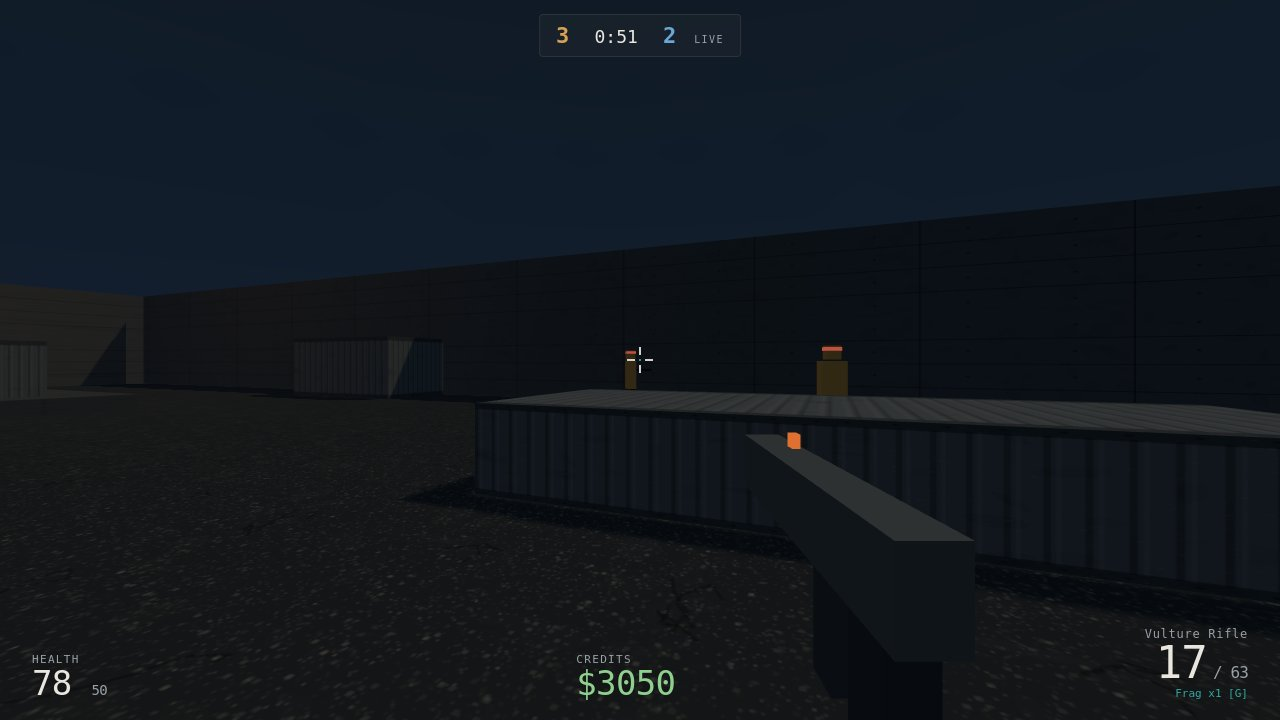
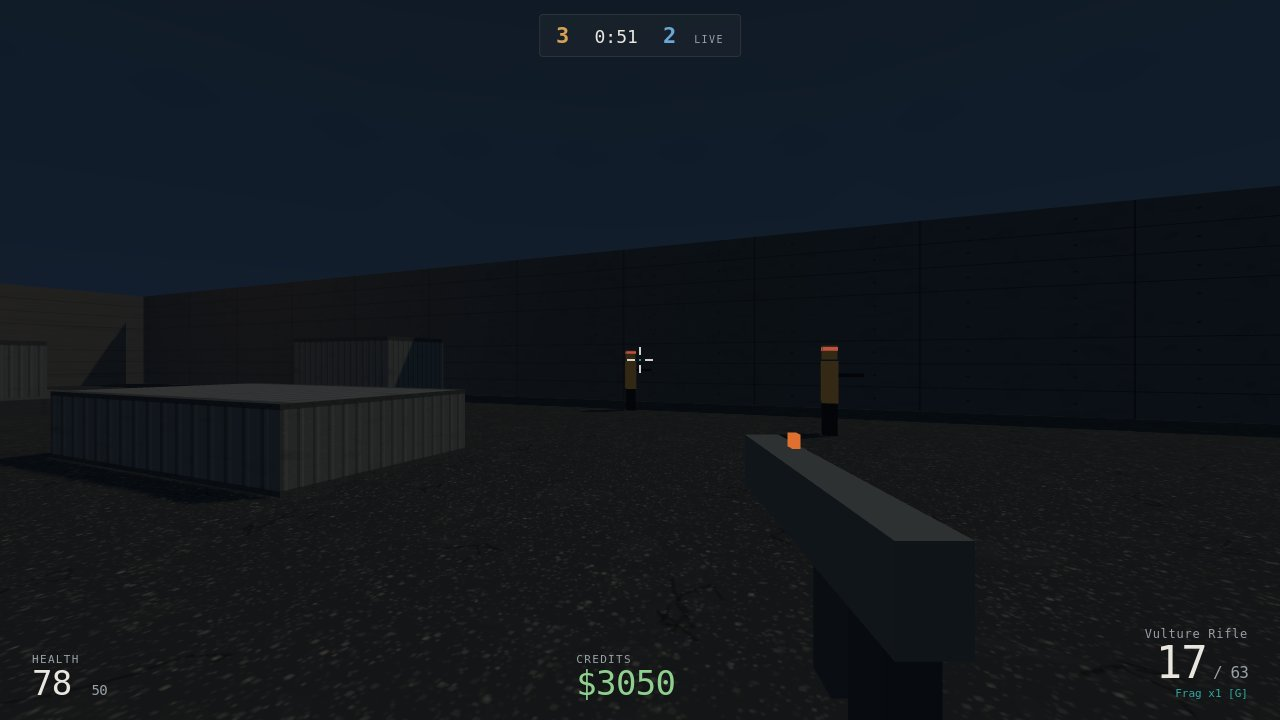
Map rebuild: clear waypoint lanes, gantry beam, procedural texture pass
- Re-routed every bot waypoint edge through open ground (audit: 0 blocked
  edges); re-shaped crane alley into a 4-wide corridor with staggered cover
- Procedural CanvasTextures for containers/concrete/asphalt/hazard, sun
  shadows, sky gradient dome, site hazard skirts
- First-person player body hidden; viewmodel + helmet team bands fixed
- Staged 4 screenshots; dossier builds deterministic (368 KB)

Changed region(s): [[0.3438, 0.4889, 1.0, 0.6111], [0.0625, 0.5194, 0.3438, 0.5806]]

diff --git a/game/src/mapdata.js b/game/src/mapdata.js
@@ -1,6 +1,8 @@
 // SALTDOWN — map data for "Saltline", an original container-terminal map.
 // Pure data: axis-aligned boxes (x,z = center, w,d = footprint, h = height, y = base),
 // material keys from config.PALETTE, plant sites, spawns and a waypoint graph the bots walk.
+// Layout: three north-south routes (crane alley mid, west hall, east maze) meeting the two
+// plant sites; every waypoint edge runs through open ground the audit script verifies.
 
 // Materials: g ground (implicit), c concrete, d dark concrete, m metal, r rust, t teal accent, o orange accent.
 export const BOXES = [
@@ -10,53 +12,59 @@ export const BOXES = [
   { x: -45, z: 0, w: 2, d: 94, h: 6, m: 'c' },
   { x: 45, z: 0, w: 2, d: 94, h: 6, m: 'c' },
 
-  // central "crane alley" mid lane — long sightline with cover crates
-  { x: -3, z: -18, w: 6, d: 6, h: 2.6, m: 'r' },
-  { x: 3, z: -6, w: 6, d: 6, h: 2.6, m: 'r' },
-  { x: -3, z: 6, w: 6, d: 6, h: 2.6, m: 'r' },
-  { x: 3, z: 18, w: 6, d: 6, h: 2.6, m: 'r' },
-  { x: 0, z: 0, w: 2.2, d: 2.2, h: 7.5, m: 'm' }, // crane pillar
+  // central "crane alley" mid lane — a 4-wide corridor with staggered container cover on
+  // both sides, and a two-legged crane gantry with an overhead beam crossing the lane
+  { x: 6, z: -18, w: 6, d: 6, h: 2.6, m: 'r' },
+  { x: -6, z: -12, w: 6, d: 6, h: 2.6, m: 'r' },
+  { x: 6, z: -6, w: 6, d: 6, h: 2.6, m: 'r' },
+  { x: -6, z: 0, w: 6, d: 6, h: 2.6, m: 'r' },
+  { x: 6, z: 6, w: 6, d: 6, h: 2.6, m: 'r' },
+  { x: -6, z: 12, w: 6, d: 6, h: 2.6, m: 'r' },
+  { x: 6, z: 18, w: 6, d: 6, h: 2.6, m: 'r' },
+  { x: -2.6, z: 0, w: 1.4, d: 1.4, h: 7.5, m: 'm' }, // crane leg west
+  { x: 2.6, z: 0, w: 1.4, d: 1.4, h: 7.5, m: 'm' },  // crane leg east
+  { x: 0, z: 0, y: 4.6, w: 7.5, d: 2, h: 0.8, m: 'm' }, // gantry beam over the lane
 
-  // site A (west, attackers push via upper catwalk or low hall)
-  { x: -30, z: -28, w: 18, d: 16, h: 0.5, m: 'd' }, // raised platform (walkable ramp height)
-  { x: -30, z: -28, w: 4, d: 4, h: 3.4, m: 't' }, // plant prop
+  // site A (west, raised platform walkable at step height)
+  { x: -30, z: -28, w: 18, d: 16, h: 0.5, m: 'd' },
+  { x: -34, z: -30, w: 4, d: 4, h: 3.4, m: 't' }, // plant prop, off the direct walk line
   { x: -38, z: -20, w: 6, d: 4, h: 2.6, m: 'r' },
   { x: -24, z: -34, w: 8, d: 3, h: 2.6, m: 'r' },
   { x: -22, z: -22, w: 3, d: 3, h: 2.2, m: 'm' },
   { x: -36, z: -36, w: 4, d: 2, h: 3.6, m: 'm' }, // cover pillar
 
-  // site B (east, reached through container maze)
+  // site B (east, reached through the container maze)
   { x: 30, z: 28, w: 18, d: 16, h: 0.5, m: 'd' },
-  { x: 30, z: 28, w: 4, d: 4, h: 3.4, m: 'o' }, // plant prop
-  { x: 22, z: 20, w: 5, d: 5, h: 2.6, m: 'r' },
+  { x: 34, z: 30, w: 4, d: 4, h: 3.4, m: 'o' }, // plant prop
+  { x: 16, z: 22, w: 5, d: 5, h: 2.6, m: 'r' },
   { x: 37, z: 33, w: 5, d: 3, h: 2.6, m: 'r' },
   { x: 24, z: 33, w: 3, d: 3, h: 2.2, m: 'm' },
   { x: 36, z: 22, w: 2, d: 2, h: 3.6, m: 'm' },
 
   // container maze between mid and B
+  { x: 14, z: 20, w: 10, d: 4, h: 2.6, m: 'o' },
   { x: 16, z: 6, w: 6, d: 14, h: 2.6, m: 'r' },
-  { x: 24, z: -2, w: 8, d: 6, h: 2.6, m: 'm' },
-  { x: 30, z: 8, w: 6, d: 10, h: 2.6, m: 'r' },
-  { x: 16, z: 20, w: 10, d: 5, h: 2.6, m: 'o' },
+  { x: 36, z: -4, w: 4, d: 8, h: 2.6, m: 'r' },
+  { x: 36, z: 4, w: 4, d: 8, h: 2.6, m: 'm' },
   { x: 34, z: 14, w: 4, d: 4, h: 2.2, m: 'm' },
 
   // west flank to A (long hall with window)
   { x: -24, z: 4, w: 10, d: 6, h: 3.2, m: 'm' },
-  { x: -32, z: 14, w: 6, d: 8, h: 2.6, m: 'r' },
-  { x: -14, z: 16, w: 5, d: 5, h: 2.6, m: 'r' },
+  { x: -38, z: 16, w: 6, d: 8, h: 2.6, m: 'r' },
+  { x: -16, z: 22, w: 5, d: 5, h: 2.6, m: 'r' },
   { x: -30, z: 28, w: 12, d: 5, h: 2.6, m: 'o' },
 
   // attacker spawn (south) and defender spawn (north) cover
   { x: -12, z: 38, w: 6, d: 5, h: 2.6, m: 'r' },
-  { x: 12, z: -38, w: 6, d: 5, h: 2.6, m: 'r' },
-  { x: 0, z: 34, w: 8, d: 3, h: 1.1, m: 'm' }, // ramp-ish low block at T spawn exit
-  { x: 0, z: -34, w: 8, d: 3, h: 1.1, m: 'm' },
+  { x: 12, z: -42, w: 6, d: 5, h: 2.6, m: 'r' },
+  { x: 9, z: 33, w: 6, d: 3, h: 1.1, m: 'm' }, // low curb off the mid lane at T spawn exit
+  { x: -9, z: -33, w: 6, d: 3, h: 1.1, m: 'm' },
   { x: -20, z: -44, w: 6, d: 4, h: 2.6, m: 'm' },
   { x: 20, z: 44, w: 6, d: 4, h: 2.6, m: 'm' },
 ];
 
-// Raised platforms are walkable (h 1.2). Plant zones: an attacker standing inside with the
-// charge may plant. Defender defuse needs the charge planted here.
+// Plant zones: an attacker standing inside with the charge may plant. Defender defuse
+// needs the charge planted here.
 export const SITES = [
   { name: 'A', x: -30, z: -28, radius: 7 },
   { name: 'B', x: 30, z: 28, radius: 7 },
@@ -84,7 +92,7 @@ export const WAYPOINTS = [
   { x: -34, z: 6 },     // 8 west hall north
   { x: -30, z: -12 },   // 9 approach A from west
   { x: -30, z: -24 },   // 10 site A
-  { x: -18, z: -34 },   // 11 A north connector
+  { x: -16, z: -32 },   // 11 A north connector
   { x: -12, z: -20 },   // 12 A to mid link
   { x: 16, z: 30 },     // 13 east route
   { x: 26, z: 18 },     // 14 maze south
@@ -94,15 +102,8 @@ export const WAYPOINTS = [
   { x: 30, z: -30 },    // 18 B north approach (rotator)
   { x: 30, z: 24 },     // 19 site B
   { x: 14, z: 38 },     // 20 B south connector
-  { x: -12, z: 8 },     // 21 mid-west link
-  { x: 12, z: -8 },     // 22 mid-east link
-];
-
-export const EDGES = [
-  [0, 1], [1, 2], [2, 3], [3, 4], [4, 5],
-  [0, 6], [6, 7], [7, 8], [8, 9], [9, 10], [10, 11], [11, 12], [12, 2], [12, 3], [9, 12],
-  [0, 20], [20, 13], [13, 14], [14, 15], [15, 16], [16, 17], [17, 18], [18, 19], [19, 14], [19, 15], [18, 4], [17, 3],
-  [1, 21], [21, 7], [2, 21], [5, 18], [3, 22], [22, 16], [4, 22], [13, 19],
+  { x: -11, z: 16 },    // 21 mid-west link
+  { x: 12, z: -10 },    // 22 mid-east link
 ];
 
 // Per-role default target site preference (index into SITES), split across the team.
@@ -110,3 +111,10 @@ export const TEAM_PLAN = {
   attack: [0, 0, 1, 1],   // 2 push A, 2 push B (player free)
   defend: [0, 0, 1, 1],   // 2 hold each site
 };
+
+export const EDGES = [
+  [0, 1], [1, 2], [2, 3], [3, 4], [4, 5],
+  [0, 6], [6, 7], [7, 8], [8, 9], [9, 10], [10, 11], [11, 12], [9, 12],
+  [0, 20], [20, 13], [13, 14], [14, 15], [15, 16], [16, 17], [17, 18], [18, 19], [19, 14], [19, 15], [18, 4], [17, 4],
+  [1, 21], [21, 7], [5, 18], [3, 22], [22, 16], [12, 4], [13, 19],
+];
